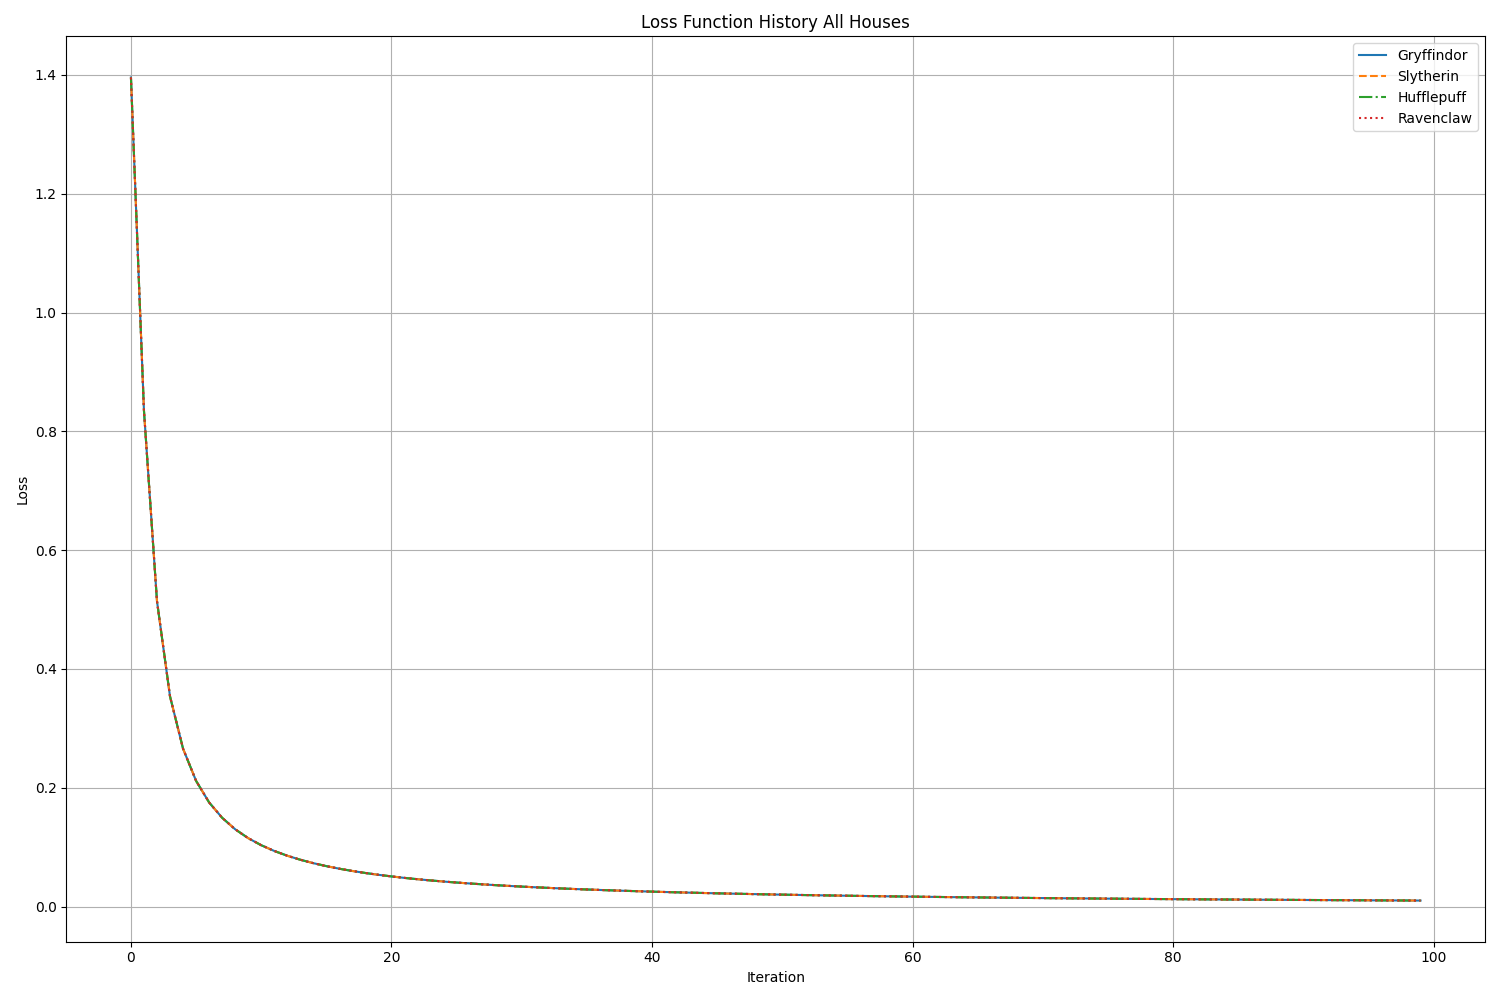
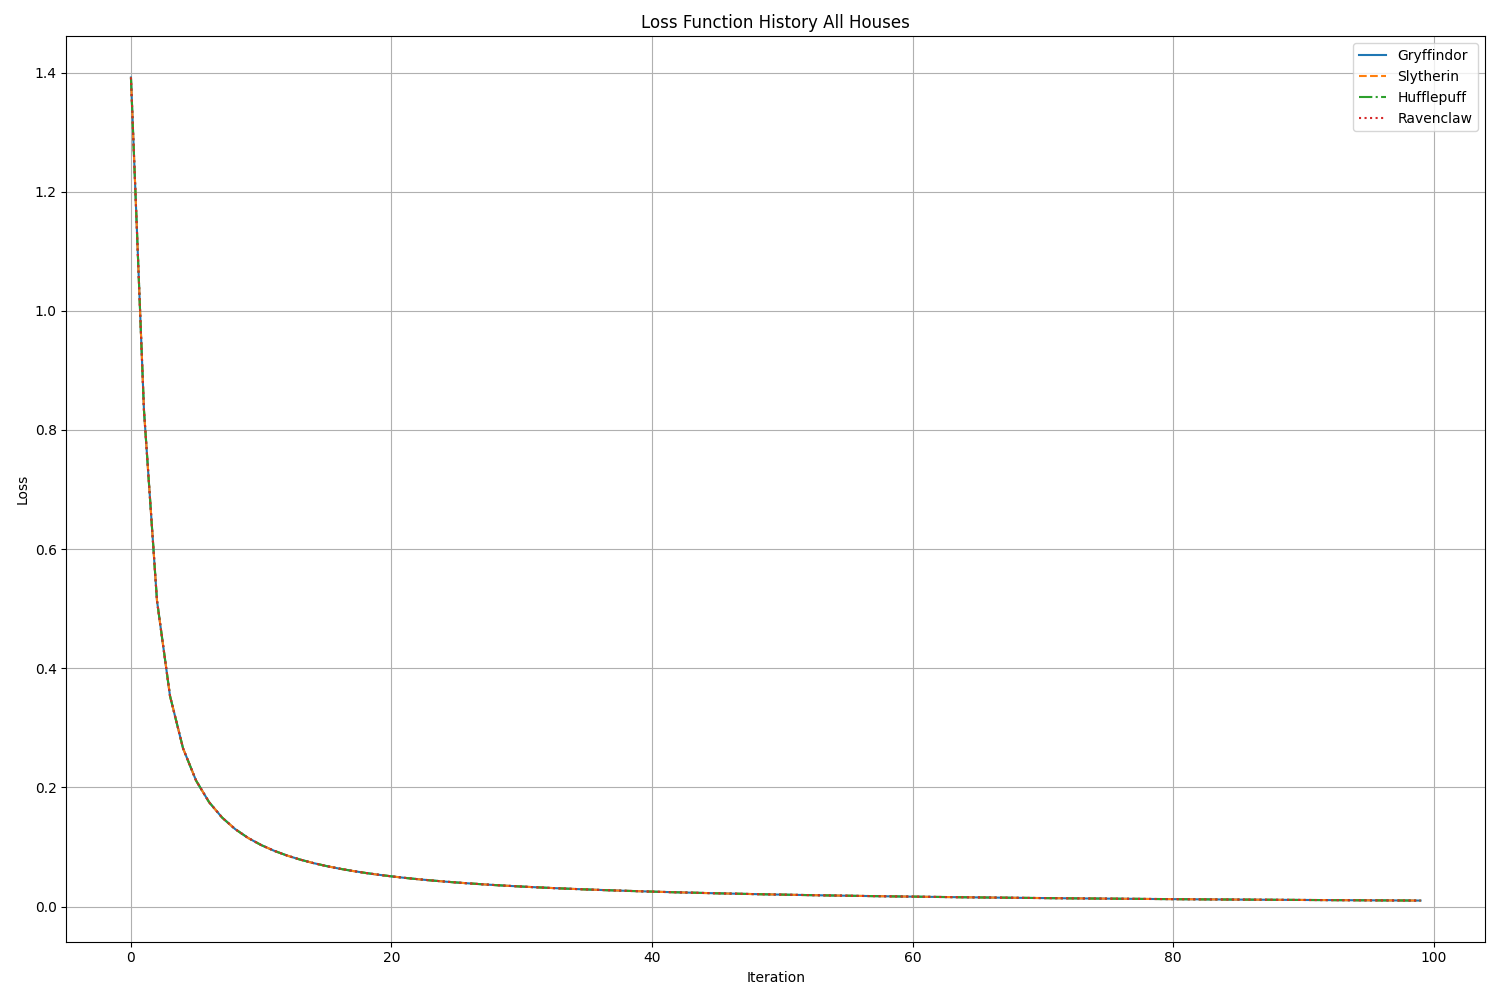
WIP log reg predict

diff --git a/src/logreg/logreg_train.py b/src/logreg/logreg_train.py
@@ -1,0 +1,217 @@
+import sys
+import os
+import csv
+
+import pandas as pd
+import numpy as np
+import matplotlib.pyplot as plt
+from tqdm import tqdm
+
+current_dir = os.path.dirname(os.path.abspath(__file__))
+module_dir = os.path.join(os.path.dirname(current_dir), 'utils')
+sys.path.append(module_dir)
+from describe import ft_describe
+from data_analyzer import percentile
+
+MAX_ITERATIONS = 100
+LEARNING_RATE = 1
+PARAMS_FILE_PATH = 'data/params.csv'
+PLOTS_DIR = './plots'
+
+columns_to_drop = []
+# columns_to_drop = ['Defense Against the Dark Arts', 'Arithmancy', 'Care of Magical Creatures']
+# columns_to_drop = ['Defense Against the Dark Arts', 'Arithmancy', 'Care of Magical Creatures', 'Transfiguration', 'Charms', 'Flying']
+houses = ['Gryffindor', 'Slytherin', 'Hufflepuff', 'Ravenclaw']
+
+
+class MyLogisticRegression:
+    def __init__(self, theta, lr=LEARNING_RATE, max_iter=MAX_ITERATIONS):
+        self.theta = theta
+        self.lr = lr
+        self.max_iter = max_iter
+        self.loss_history = {house: [] for house in houses}
+
+    def sigmoid(self, z):
+        return 1 / (1 + np.exp(-z))
+    
+    def loss(self, h, y):
+        return -np.mean(y * np.log(h) + (1 - y) * np.log(1 - h))
+    
+    def fit(self, X, y, model_name, progress_bar=None):
+        m = len(y)
+        X = np.hstack((np.ones((m, 1)), X))
+        for _ in tqdm(range(self.max_iter), desc=f'Training {model_name :<11}'):
+            h = self.sigmoid(X.dot(self.theta))
+            error = h - y
+            gradient = X.T.dot(error) / m
+            self.theta -= self.lr * gradient
+            current_loss = self.loss(h, y)
+            for house in houses:
+                self.loss_history[house].append(current_loss)
+            if progress_bar:
+                progress_bar.update(1)
+
+    def plot_loss_history(self, model_name):
+        plt.figure(figsize=(15, 10))
+        line_styles = ['-', '--', '-.', ':']
+        for i, house in enumerate(houses):
+            house_loss_history = np.array(self.loss_history[house])
+            line_style = line_styles[i % len(line_styles)]
+            plt.plot(house_loss_history, label=house, linestyle=line_style)
+        plt.title(f'Loss Function History {model_name}')
+        plt.xlabel('Iteration')
+        plt.ylabel('Loss')
+        plt.grid(True)
+        plt.legend()
+        plt.tight_layout()
+        plt.show(block=False)
+        os.makedirs(PLOTS_DIR, exist_ok=True)
+        save_path = os.path.join(PLOTS_DIR, f'plot_LOSS_history_{model_name}.png')
+        plt.savefig(save_path)
+        print('\n⚪ Plot saved as: {}\n'.format(save_path))
+        input('\nPress Enter to continue...\n')
+        plt.close()
+    
+    def predict(self, X):
+        m = X.shape[0]
+        X = np.hstack((np.ones((m, 1)), X))
+        probabilities = self.sigmoid(X.dot(self.theta))
+        return (probabilities >= 0.5).astype(int)
+
+
+def normalize_xset(X):
+    means = np.mean(X, axis=0)
+    stds = np.std(X, axis=0)
+    X_norm = (X - means) / stds
+    return X_norm, means, stds
+
+
+def train(filename):
+    '''
+    Main function to train the logistic model.
+    '''
+    try:
+        # Read the CSV file into a DataFrame
+        df = pd.read_csv(filename)
+        df.info()
+        print('\nINIT CSV FILE')
+        input('\nPress Enter to continue...\n')
+
+    except FileNotFoundError:
+        print('❌ Error: File not found')
+        exit(1)
+    except pd.errors.EmptyDataError:
+        print('❌ Error: Dataset file is empty')
+        exit(1)
+    except pd.errors.ParserError:
+        print('❌ Error: Invalid CSV file format.')
+        exit(1)
+    except Exception as e:
+        print('❌ Error:', e)
+        exit(1)
+
+    # Get numeric features
+    df_num = df.select_dtypes(include=['int', 'float'])
+
+    # Replace NaN data with mean value
+    for column in df_num.columns:
+        # if df_num[column].dtype != 'object':
+        median = percentile(df_num[column], 0.50)
+        df_num[column] = df_num[column].fillna(median)
+
+    df_num.info()
+    print('\nREPLACE NaN DATA WITH MEAN VALUE')
+    input('\nPress Enter to continue...\n')
+
+    # Drop category features
+    df_num.drop(columns_to_drop, inplace=True, axis=1)
+
+    df_num.info()
+    df_num.to_csv('data/df_num.csv', index=False)
+    print('\nREMOVE SOME CATEGORY FEATURES')
+    input('\nPress Enter to continue...\n')
+
+    ft_describe('data/df_num.csv')
+
+    # Get numeric features
+    nb_features = len(df_num.columns)
+    x = np.array(df_num)
+    y = np.array(df['Hogwarts House'])
+
+    # Normalize data
+    X_norm, means, stds = normalize_xset(x)
+
+    # Create label sets to train models
+    y_trains = []
+    for house in houses:
+        y_train_house = np.where(y == house, 1, 0)
+        y_trains.append(y_train_house)
+
+    # Train models
+    models = []
+    for y_train, house in zip(y_trains, houses):
+        # Initialize theta with random values
+        theta = np.random.rand(nb_features + 1, 1600)
+        
+        # Create an instance of MyLogisticRegression with the initialized theta
+        model = MyLogisticRegression(theta, lr=LEARNING_RATE, max_iter=MAX_ITERATIONS)
+        
+        # Initialize tqdm to track progress
+        progress_bar = tqdm(total=MAX_ITERATIONS, desc=f'Training {house}', disable=True)
+        
+        # Fit the model with progress bar
+        model.fit(X_norm, y_train, house, progress_bar=progress_bar)
+
+        # Close progress bar
+        progress_bar.close()
+
+        # Append the trained model to the list of models
+        models.append(model)
+
+    model.plot_loss_history('All Houses')
+
+    # Saving hyperparameters adjusted with the training
+    try:
+        with open(PARAMS_FILE_PATH, 'w') as file:
+            writer = csv.writer(file)
+            writer.writerow(["theta", "mean", "std"])
+            for model, house in zip(models, houses):
+                last_theta = model.theta[:, -1]
+                theta_str = ','.join([f'{val}' for val in last_theta])
+                mean_str = ','.join([f'{mean}' for mean in means])
+                std_str = ','.join([f'{std}' for std in stds])
+                writer.writerow([theta_str, mean_str, std_str])
+        print('\n⚪ Parameters file saved as: {}\n'.format(PARAMS_FILE_PATH))
+    except FileNotFoundError:
+        print('❌ Error: File not found {}'.format(PARAMS_FILE_PATH),
+              file=sys.stderr)
+        exit(1)
+    except Exception as e:
+        print('❌ Error:', e, file=sys.stderr)
+        exit(1)
+
+
+def main():
+    '''
+    Main function of the program.
+    '''
+    # Check if the correct number of arguments is provided
+    if len(sys.argv) != 2:
+        print('❗ Usage: python3 logreg_train.py data*.csv')
+        exit(1)
+
+    # Get the file path from command line arguments
+    file_path = sys.argv[1]
+    print(f'\n🟡 File path:{file_path}\n')
+
+    # Check if the file exists
+    if not os.path.isfile(file_path):
+        print('❌ Error: File not found')
+        exit(1)
+
+    # Describe the CSV file
+    train(file_path)
+
+
+if __name__ == "__main__":
+    main()

diff --git a/src/logreg/logreg_predict.py b/src/logreg/logreg_predict.py
@@ -1,0 +1,177 @@
+import os
+import sys
+import csv
+
+import numpy as np
+import pandas as pd
+# import matplotlib.pyplot as plt
+
+current_dir = os.path.dirname(os.path.abspath(__file__))
+module_dir = os.path.join(os.path.dirname(current_dir), 'utils')
+sys.path.append(module_dir)
+
+from logreg_train import columns_to_drop, houses, PARAMS_FILE_PATH, MyLogisticRegression, normalize_xset
+from data_analyzer import percentile
+
+HOUSES_FILE_PATH = 'data/houses.csv'
+
+
+
+
+def predict(filename):
+    '''
+    Main function to predict the Hogwarts house of students.
+    '''
+
+    thetas = []
+    means = []
+    stds = []
+    try:
+        with open(PARAMS_FILE_PATH, 'r') as file:
+            reader = csv.DictReader(file)
+            for row in reader:
+                thetas.append(np.array([float(theta) for theta in row['theta'].split(',')]).reshape(-1, 1))
+                means.append(np.array([float(mean) for mean in row['mean'].split(',')]).reshape(-1, 1))
+                stds.append(np.array([float(std) for std in row['std'].split(',')]).reshape(-1, 1))
+
+
+    except FileNotFoundError:
+        print('❌ Error: File not found {}'.format(PARAMS_FILE_PATH),
+              file=sys.stderr)
+        exit(1)
+    except ValueError:
+        print('❌ Error: Reading file {}'.format(PARAMS_FILE_PATH),
+              file=sys.stderr)
+        exit(1)
+    except Exception as e:
+        print('❌ Error:', e, file=sys.stderr)
+        exit(1)
+
+    # 2. create 4 models with the proper thetas, one per class to classify
+    models = []
+    for i in range(4):
+        models.append(MyLogisticRegression(thetas[i]))
+
+
+
+    try:
+        # Read the CSV file into a DataFrame
+        df = pd.read_csv(filename)
+        df.info()
+        print('\nINIT CSV FILE')
+        input('\nPress Enter to continue...\n')
+
+    except FileNotFoundError:
+        print('❌ Error: File not found')
+        exit(1)
+    except pd.errors.EmptyDataError:
+        print('❌ Error: Dataset file is empty')
+        exit(1)
+    except pd.errors.ParserError:
+        print('❌ Error: Invalid CSV file format.')
+        exit(1)
+    except Exception as e:
+        print('❌ Error:', e)
+        exit(1)
+
+
+    col_names = ["Index", "Hogwarts House", "First Name", "Last Name",
+                 "Birthday", "Best Hand", "Arithmancy", "Astronomy",
+                 "Herbology", "Defense Against the Dark Arts",
+                 "Divination", "Muggle Studies", "Ancient Runes",
+                 "History of Magic", "Transfiguration", "Potions",
+                 "Care of Magical Creatures", "Charms", "Flying"]
+    col_types = [int, None, object, object, object, object, float, float,
+                 float, float, float, float, float, float, float, float, float,
+                 float, float]
+    col_check = zip(col_names, col_types)
+
+    # check that the expected columns are here and check their type
+    if not set(col_names).issubset(df.columns):
+        print(f"Missing columns in '{filename}' file", file=sys.stderr)
+        exit(1)
+    for name, type_ in col_check:
+        if not df[name].dtype == type_:
+            print(f"Wrong column type in '{filename} file", file=sys.stderr)
+            exit(1)
+
+ 
+    df_num = df.select_dtypes(include=['int', 'float'])
+
+ 
+
+    # Replace NaN data with mean value
+    for column in df_num.columns:
+        # if df_num[column].dtype != 'object':
+        median = percentile(df_num[column], 0.50)
+        df_num[column] = df_num[column].fillna(median)
+
+    df_num.drop(columns_to_drop, inplace=True, axis=1)
+
+    df_num.info()
+    input('\nPress Enter to continue...\n')
+
+    df_num.drop('Hogwarts House', inplace=True, axis=1)
+
+    df_num.info()
+    input('\nPress Enter to continue...\n')
+
+    # nb features
+    nb_features = len(df_num.columns)
+
+    # set X and y
+    X = np.array(df_num).reshape(-1, nb_features)
+    X_norm, _, _ = normalize_xset(X)
+
+    predict = np.empty((X.shape[0], 0))
+    for model in models:
+        predict = np.c_[predict, model.predict(X_norm)]
+    predict = np.argmax(predict, axis=1).reshape((-1, 1))
+
+    try:
+        with open(HOUSES_FILE_PATH, 'w') as file:
+            writer = csv.writer(file)
+            writer.writerow(["Index", "Hogwarts House"])
+            for index, prediction in enumerate(predict):
+                writer.writerow([index, houses[int(prediction.item())]])
+        # print("\033[32mPrediction file has been created: "
+        #       "data/houses.csv\033[0m")
+        print('\n⚪ Prediction file saved as: {}\n'.format(HOUSES_FILE_PATH))
+        
+    except FileNotFoundError:
+        print('❌ Error: File not found {}'.format(HOUSES_FILE_PATH),
+              file=sys.stderr)
+        exit(1)
+    except Exception as e:
+        print('❌ Error:', e, file=sys.stderr)
+        exit(1)
+
+
+
+
+def main():
+    '''
+    Main function of the program.
+    '''
+    # Check if the correct number of arguments is provided
+    if len(sys.argv) != 2:
+        print('❗ Usage: python3 logreg_train.py data*.csv')
+        exit(1)
+
+    # Get the file path from command line arguments
+    file_path = sys.argv[1]
+    print(f'\n🟡 File path:{file_path}\n')
+
+    # Check if the file exists
+    if not os.path.isfile(file_path):
+        print('❌ Error: File not found')
+        exit(1)
+
+    # Describe the CSV file
+    predict(file_path)
+
+
+if __name__ == "__main__":
+    main()
+
+
